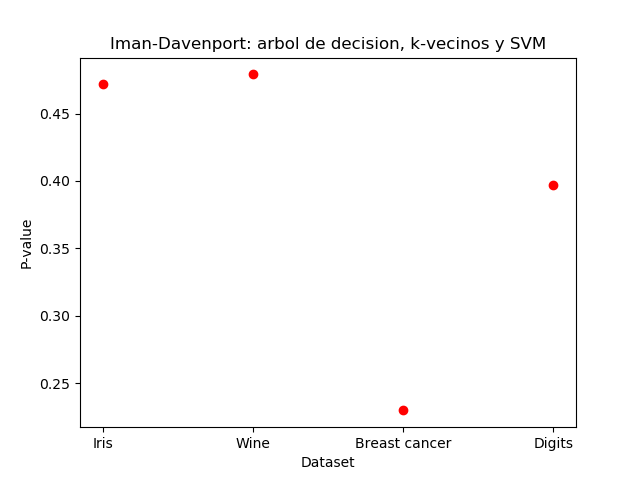
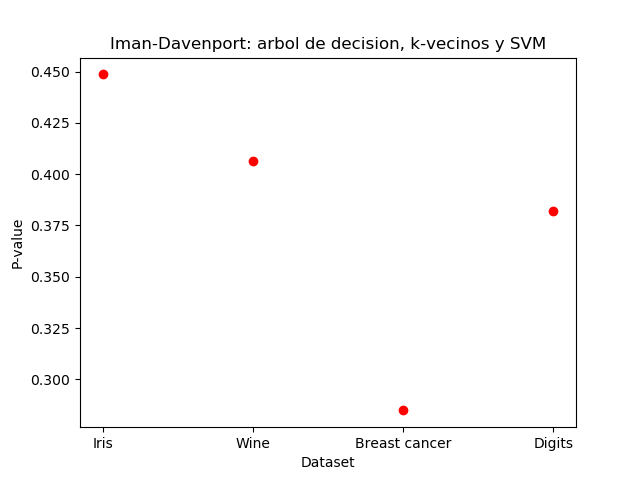
Correccion ejercicios

diff --git a/PRACTICAS/PRACTICA2/ejercicio4.py b/PRACTICAS/PRACTICA2/ejercicio4.py
@@ -9,12 +9,11 @@ import matplotlib.pyplot as plt
 from sklearn.tree import DecisionTreeClassifier
 # k-vecinos
 from sklearn.neighbors import KNeighborsClassifier
-
 # SVM
 from sklearn.svm import SVC
-
 # Wilcoxon test para comparar dos metodos de clasificacion en N datasets
 from scipy.stats import wilcoxon
+from sklearn.model_selection import train_test_split
 
 # Test de Friedman para comparar tres metodos de clasificacion en N datasets
 from scipy.stats import friedmanchisquare
@@ -31,47 +30,60 @@ digits = datasets.load_digits()
 # Modelos de entrenamiento
 arbol = DecisionTreeClassifier()
 knn = KNeighborsClassifier(n_neighbors=5)
+svm = SVC(kernel='linear', C=1)
 
 pred_arbol = []; pred_knn = []; pred_svm = []
 
 # Entrenamos el arbol de decision
-arbol.fit(iris.data, iris.target)
-pred_arbol.append(arbol.predict(iris.data))
+X_train, X_test, y_train, y_test = train_test_split(iris.data, iris.target, test_size=0.3, random_state=1)
+arbol.fit(X_train, y_train)
+pred_arbol.append(arbol.predict(X_test))
 
-arbol.fit(wine.data, wine.target)
-pred_arbol.append(arbol.predict(wine.data))
+X_train, X_test, y_train, y_test = train_test_split(wine.data, wine.target, test_size=0.3, random_state=1)
+arbol.fit(X_train, y_train)
+pred_arbol.append(arbol.predict(X_test))
 
-arbol.fit(breast_cancer.data, breast_cancer.target)
-pred_arbol.append(arbol.predict(breast_cancer.data))
+X_train, X_test, y_train, y_test = train_test_split(breast_cancer.data, breast_cancer.target, test_size=0.3, random_state=1)
+arbol.fit(X_train, y_train)
+pred_arbol.append(arbol.predict(X_test))
 
-arbol.fit(digits.data, digits.target)
-pred_arbol.append(arbol.predict(digits.data))
+X_train, X_test, y_train, y_test = train_test_split(digits.data, digits.target, test_size=0.3, random_state=1)
+arbol.fit(X_train, y_train)
+pred_arbol.append(arbol.predict(X_test))
 
 # Entrenamos el k-vecinos
-knn.fit(iris.data, iris.target)
-pred_knn.append(knn.predict(iris.data))
+X_train, X_test, y_train, y_test = train_test_split(iris.data, iris.target, test_size=0.3, random_state=1)
+knn.fit(X_train, y_train)
+pred_knn.append(knn.predict(X_test))
 
-knn.fit(wine.data, wine.target)
-pred_knn.append(knn.predict(wine.data))
+X_train, X_test, y_train, y_test = train_test_split(wine.data, wine.target, test_size=0.3, random_state=1)
+knn.fit(X_train, y_train)
+pred_knn.append(knn.predict(X_test))
 
-knn.fit(breast_cancer.data, breast_cancer.target)
-pred_knn.append(knn.predict(breast_cancer.data))
+X_train, X_test, y_train, y_test = train_test_split(breast_cancer.data, breast_cancer.target, test_size=0.3, random_state=1)
+knn.fit(X_train, y_train)
+pred_knn.append(knn.predict(X_test))
 
-knn.fit(digits.data, digits.target)
-pred_knn.append(knn.predict(digits.data))
+X_train, X_test, y_train, y_test = train_test_split(digits.data, digits.target, test_size=0.3, random_state=1)
+knn.fit(X_train, y_train)
+pred_knn.append(knn.predict(X_test))
 
 # Entrenamos el SVM
-svm = SVC(kernel='linear', C=1).fit(iris.data, iris.target)
-pred_svm.append(svm.predict(iris.data))
+X_train, X_test, y_train, y_test = train_test_split(iris.data, iris.target, test_size=0.3, random_state=1)
+svm.fit(X_train, y_train)
+pred_svm.append(svm.predict(X_test))
 
-svm = SVC(kernel='linear', C=1).fit(wine.data, wine.target)
-pred_svm.append(svm.predict(wine.data))
+X_train, X_test, y_train, y_test = train_test_split(wine.data, wine.target, test_size=0.3, random_state=1)
+svm.fit(X_train, y_train)
+pred_svm.append(svm.predict(X_test))
 
-svm = SVC(kernel='linear', C=1).fit(breast_cancer.data, breast_cancer.target)
-pred_svm.append(svm.predict(breast_cancer.data))
+X_train, X_test, y_train, y_test = train_test_split(breast_cancer.data, breast_cancer.target, test_size=0.3, random_state=1)
+svm.fit(X_train, y_train)
+pred_svm.append(svm.predict(X_test))
 
-svm = SVC(kernel='linear', C=1).fit(digits.data, digits.target)
-pred_svm.append(svm.predict(digits.data))
+X_train, X_test, y_train, y_test = train_test_split(digits.data, digits.target, test_size=0.3, random_state=1)
+svm.fit(X_train, y_train)
+pred_svm.append(svm.predict(X_test))
 
 # Test de Wilcoxon para comparar dos metodos de clasificacion en N datasets
 # Comparacion arbol de decision y k-vecinos

diff --git a/PRACTICAS/PRACTICA2/ejercicio6.py b/PRACTICAS/PRACTICA2/ejercicio6.py
@@ -3,12 +3,12 @@
 # Autor: Jaime Lorenzo Sanchez
 
 # Listado de bibliotecas
-import pandas as pd
 from sklearn import datasets
-import matplotlib.pyplot as plt
 from sklearn.tree import DecisionTreeClassifier
 from sklearn.neighbors import KNeighborsClassifier
 from sklearn.svm import SVC
+from sklearn import metrics
+from sklearn.model_selection import train_test_split
 # Biblioteca de Ponferroni-Dunn
 import scikit_posthocs as sp
 
@@ -28,34 +28,46 @@ svm = SVC(kernel='linear', C=1)
 pred_arbol = []; pred_knn = []; pred_svm = []
 
 # Entrenamos el arbol de decision
-arbol.fit(iris.data, iris.target)
-pred_arbol.append(arbol.predict(iris.data))
-arbol.fit(wine.data, wine.target)
-pred_arbol.append(arbol.predict(wine.data))
-arbol.fit(breast_cancer.data, breast_cancer.target)
-pred_arbol.append(arbol.predict(breast_cancer.data))
-arbol.fit(digits.data, digits.target)
-pred_arbol.append(arbol.predict(digits.data))
+X_train, X_test, y_train, y_test = train_test_split(iris.data, iris.target, test_size=0.3, random_state=1)
+arbol.fit(X_train, y_train)
+pred_arbol.append(arbol.predict(X_test))
+X_train, X_test, y_train, y_test = train_test_split(wine.data, wine.target, test_size=0.3, random_state=1)
+arbol.fit(X_train, y_train)
+pred_arbol.append(arbol.predict(X_test))
+X_train, X_test, y_train, y_test = train_test_split(breast_cancer.data, breast_cancer.target, test_size=0.3, random_state=1)
+arbol.fit(X_train, y_train)
+pred_arbol.append(arbol.predict(X_test))
+X_train, X_test, y_train, y_test = train_test_split(digits.data, digits.target, test_size=0.3, random_state=1)
+arbol.fit(X_train, y_train)
+pred_arbol.append(arbol.predict(X_test))
 
 # Entrenamos el k-vecinos
-knn.fit(iris.data, iris.target)
-pred_knn.append(knn.predict(iris.data))
-knn.fit(wine.data, wine.target)
-pred_knn.append(knn.predict(wine.data))
-knn.fit(breast_cancer.data, breast_cancer.target)
-pred_knn.append(knn.predict(breast_cancer.data))
-knn.fit(digits.data, digits.target)
-pred_knn.append(knn.predict(digits.data))
+X_train, X_test, y_train, y_test = train_test_split(iris.data, iris.target, test_size=0.3, random_state=1)
+knn.fit(X_train, y_train)
+pred_knn.append(knn.predict(X_test))
+X_train, X_test, y_train, y_test = train_test_split(wine.data, wine.target, test_size=0.3, random_state=1)
+knn.fit(X_train, y_train)
+pred_knn.append(knn.predict(X_test))
+X_train, X_test, y_train, y_test = train_test_split(breast_cancer.data, breast_cancer.target, test_size=0.3, random_state=1)
+knn.fit(X_train, y_train)
+pred_knn.append(knn.predict(X_test))
+X_train, X_test, y_train, y_test = train_test_split(digits.data, digits.target, test_size=0.3, random_state=1)
+knn.fit(X_train, y_train)
+pred_knn.append(knn.predict(X_test))
 
 # Entrenamos el SVM
-svm.fit(iris.data, iris.target)
-pred_svm.append(svm.predict(iris.data))
-svm.fit(wine.data, wine.target)
-pred_svm.append(svm.predict(wine.data))
-svm.fit(breast_cancer.data, breast_cancer.target)
-pred_svm.append(svm.predict(breast_cancer.data))
-svm.fit(digits.data, digits.target)
-pred_svm.append(svm.predict(digits.data))
+X_train, X_test, y_train, y_test = train_test_split(iris.data, iris.target, test_size=0.3, random_state=1)
+svm.fit(X_train, y_train)
+pred_svm.append(svm.predict(X_test))
+X_train, X_test, y_train, y_test = train_test_split(wine.data, wine.target, test_size=0.3, random_state=1)
+svm.fit(X_train, y_train)
+pred_svm.append(svm.predict(X_test))
+X_train, X_test, y_train, y_test = train_test_split(breast_cancer.data, breast_cancer.target, test_size=0.3, random_state=1)
+svm.fit(X_train, y_train)
+pred_svm.append(svm.predict(X_test))
+X_train, X_test, y_train, y_test = train_test_split(digits.data, digits.target, test_size=0.3, random_state=1)
+svm.fit(X_train, y_train)
+pred_svm.append(svm.predict(X_test))
 
 # Prueba de Dunn usando una correccion de Bonferroni para los valores p
 

diff --git a/PRACTICAS/PRACTICA2/ejercicio7.py b/PRACTICAS/PRACTICA2/ejercicio7.py
@@ -1,0 +1,46 @@
+# Ejercicio 7 practica 2 de IMD
+# Para uno de los clasificadores elegidos utilice una validación de los hiper parámetros 
+# con grid search y compare su rendimiento con el método con hiper parámetros fijados 
+# a priori. 
+# autor: Jaime Lorenzo Sanchez
+
+# Listado de bibliotecas
+from sklearn import datasets
+from sklearn.tree import DecisionTreeClassifier
+from sklearn import metrics
+from sklearn.model_selection import train_test_split
+# Dataset a entrenar y testear
+iris = datasets.load_iris()
+wine = datasets.load_wine()
+breast_cancer = datasets.load_breast_cancer()
+digits = datasets.load_digits()
+datasets = ['iris','wine','breast cancer','digits']
+# Modelos de entrenamiento
+# Hiperparametros a priori fijados para el arbol de decision
+arbol = DecisionTreeClassifier()
+pred_arbol = []; precision_apriori = []
+
+# Entrenamos el arbol de decision
+X_train, X_test, y_train, y_test = train_test_split(iris.data, iris.target, test_size=0.3, random_state=1)
+arbol.fit(X_train, y_train)
+pred_arbol.append(arbol.predict(X_test))
+precision_apriori.append(metrics.accuracy_score(y_test, pred_arbol[0]))
+X_train, X_test, y_train, y_test = train_test_split(wine.data, wine.target, test_size=0.3, random_state=1)
+arbol.fit(X_train, y_train)
+pred_arbol.append(arbol.predict(X_test))
+precision_apriori.append(metrics.accuracy_score(y_test, pred_arbol[1]))
+X_train, X_test, y_train, y_test = train_test_split(breast_cancer.data, breast_cancer.target, test_size=0.3, random_state=1)
+arbol.fit(X_train, y_train)
+pred_arbol.append(arbol.predict(X_test))
+precision_apriori.append(metrics.accuracy_score(y_test, pred_arbol[2]))
+X_train, X_test, y_train, y_test = train_test_split(digits.data, digits.target, test_size=0.3, random_state=1)
+arbol.fit(X_train, y_train)
+pred_arbol.append(arbol.predict(X_test))
+precision_apriori.append(metrics.accuracy_score(y_test, pred_arbol[3]))
+
+# Mostramos la precision del modelo
+
+print('Dataset: \t PrecisionPriori: ')
+for i in range(len(datasets)):
+    print(datasets[i],'\t',precision_apriori[i])
+    
